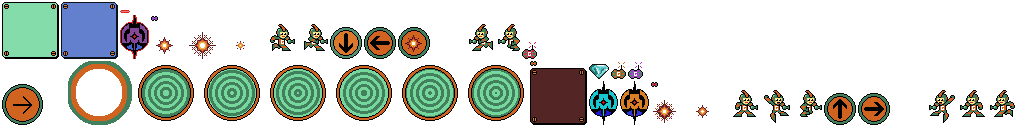
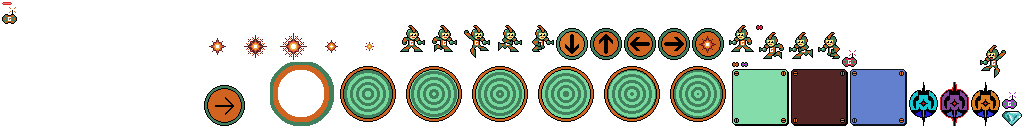
Improve font scaling issues in menus

diff --git a/core/src/main/java/com/sixmoney/gigagal/screens/LevelSelectScreen.java b/core/src/main/java/com/sixmoney/gigagal/screens/LevelSelectScreen.java
@@ -42,17 +42,7 @@ public class LevelSelectScreen extends InputAdapter implements Screen {
 
     @Override
     public void show() {
-//        Gdx.input.setInputProcessor(this);
-//        spriteBatch = new SpriteBatch();
-//        extendViewport = new ExtendViewport(Constants.WORLD_WIDTH, Constants.WORLD_HEIGHT);
-//        bitmapFont = new BitmapFont(Gdx.files.internal(Constants.FONT_FILE));
-//        level1_button = new Rectangle(extendViewport.getWorldWidth() / 8, extendViewport.getWorldHeight() * 4 / 8, extendViewport.getWorldWidth() * 6 / 8, extendViewport.getWorldHeight() / 6);
-//        level2_button = new Rectangle(extendViewport.getWorldWidth() / 8, extendViewport.getWorldHeight() / 8, extendViewport.getWorldWidth() * 6 / 8, extendViewport.getWorldHeight() / 6);
-//        level3_button = new Rectangle(extendViewport.getWorldWidth() / 8, extendViewport.getWorldHeight() / 12, extendViewport.getWorldWidth() * 6 / 8, extendViewport.getWorldHeight() / 6);
-//        level4_button = new Rectangle(extendViewport.getWorldWidth() / 8, extendViewport.getWorldHeight() / 12, extendViewport.getWorldWidth() * 6 / 8, extendViewport.getWorldHeight() / 6);
-//        back_button = new Rectangle(0, extendViewport.getWorldHeight() / 12 * 10, extendViewport.getWorldWidth() / 10, extendViewport.getWorldHeight() / 12);
-
-        stage = new Stage(new ExtendViewport(Constants.WORLD_WIDTH / 2, Constants.WINDOW_HEIGHT / 2));
+        stage = new Stage(new ExtendViewport(Constants.WORLD_WIDTH, Constants.WINDOW_HEIGHT));
         skin = new Skin(Gdx.files.internal(Constants.SKIN_PATH2));
 
         Table tableMenu = new Table(skin);
@@ -132,39 +122,12 @@ public class LevelSelectScreen extends InputAdapter implements Screen {
 
     @Override
     public void resize(int width, int height) {
-//        extendViewport.update(width, height, true);
-//        level1_button.x = extendViewport.getWorldWidth() / 8;
-//        level1_button.y = extendViewport.getWorldHeight() * 3 / 6;
-//        level1_button.width = extendViewport.getWorldWidth() * 6 / 8;
-//        level1_button.height = extendViewport.getWorldHeight() / 6;
-//
-//        level2_button.x = extendViewport.getWorldWidth() / 8;
-//        level2_button.y = extendViewport.getWorldHeight() * 2 / 6;
-//        level2_button.width = extendViewport.getWorldWidth() * 6 / 8;
-//        level2_button.height = extendViewport.getWorldHeight() / 6;
-//
-//        level3_button.x = extendViewport.getWorldWidth() / 8;
-//        level3_button.y = extendViewport.getWorldHeight() / 6;
-//        level3_button.width = extendViewport.getWorldWidth() * 6 / 8;
-//        level3_button.height = extendViewport.getWorldHeight() / 6;
-//
-//        level4_button.x = extendViewport.getWorldWidth() / 8;
-//        level4_button.y = extendViewport.getWorldHeight() / 16;
-//        level4_button.width = extendViewport.getWorldWidth() * 6 / 8;
-//        level4_button.height = extendViewport.getWorldHeight() / 10;
-//
-//        back_button.y = extendViewport.getWorldHeight() / 10 * 9;
-//        back_button.width = extendViewport.getWorldWidth() / 4;
-//        back_button.height = extendViewport.getWorldHeight() / 10;
-
         stage.getViewport().update(width, height, true);
     }
 
 
     @Override
     public void render(float delta) {
-//        extendViewport.apply(true);
-
         Gdx.gl.glClearColor(
                 Constants.BG_COLOR.r,
                 Constants.BG_COLOR.g,
@@ -172,23 +135,6 @@ public class LevelSelectScreen extends InputAdapter implements Screen {
                 Constants.BG_COLOR.a
         );
         Gdx.gl.glClear(GL20.GL_COLOR_BUFFER_BIT);
-
-//        spriteBatch.setProjectionMatrix(extendViewport.getCamera().combined);
-//        spriteBatch.begin();
-//        bitmapFont.getData().setScale(0.5f);
-//        bitmapFont.draw(spriteBatch, "SELECT A LEVEL", extendViewport.getWorldWidth() / 2, extendViewport.getWorldHeight() / 1.2f, 0, Align.center, false);
-//        Assets.get_instance().platformAssets.ninePatch_platform.draw(spriteBatch, level1_button.x, level1_button.y, level1_button.width, level1_button.height);
-//        Assets.get_instance().platformAssets.ninePatch_platform.draw(spriteBatch, level2_button.x, level2_button.y, level2_button.width, level2_button.height);
-//        Assets.get_instance().platformAssets.ninePatch_platform.draw(spriteBatch, level3_button.x, level3_button.y, level3_button.width, level3_button.height);
-//        Assets.get_instance().platformAssets.ninePatch_platform.draw(spriteBatch, level4_button.x, level4_button.y, level4_button.width, level4_button.height);
-//        Assets.get_instance().platformAssets.ninePatch_platform.draw(spriteBatch, back_button.x, back_button.y, back_button.width, back_button.height);
-//        bitmapFont.draw(spriteBatch, "LEVEL 1", level1_button.x + level1_button.width / 2, level1_button.y + level1_button.height / 1.3f, 0, Align.center, false);
-//        bitmapFont.draw(spriteBatch, "LEVEL 2", level2_button.x + level2_button.width / 2, level2_button.y + level2_button.height / 1.3f, 0, Align.center, false);
-//        bitmapFont.draw(spriteBatch, "LEVEL 3", level3_button.x + level3_button.width / 2, level3_button.y + level3_button.height / 1.3f, 0, Align.center, false);
-//        bitmapFont.draw(spriteBatch, "LEVEL 4", level4_button.x + level4_button.width / 2, level4_button.y + level4_button.height / 1.3f, 0, Align.center, false);
-//        bitmapFont.getData().setScale(0.3f);
-//        bitmapFont.draw(spriteBatch, "BACK", back_button.x + back_button.width / 2, back_button.y + back_button.height / 1.5f, 0, Align.center, false);
-//        spriteBatch.end();
 
         stage.act(delta);
         stage.draw();
@@ -209,26 +155,6 @@ public class LevelSelectScreen extends InputAdapter implements Screen {
 
     @Override
     public void dispose() {
-//        spriteBatch.dispose();
         stage.dispose();
     }
-
-//    @Override
-//    public boolean touchDown(int screenX, int screenY, int pointer, int button) {
-//        Vector2 viewportPosition = extendViewport.unproject(new Vector2(screenX, screenY));
-//
-//        if (level1_button.contains(viewportPosition)) {
-//            gigaGalGame.switchScreen("gameplay", Constants.LEVEL_1);
-//        } else if (level2_button.contains(viewportPosition)) {
-//            gigaGalGame.switchScreen("gameplay", Constants.LEVEL_2);
-//        } else if (level3_button.contains(viewportPosition)) {
-//            gigaGalGame.switchScreen("gameplay", Constants.LEVEL_3);
-//        } else if (level4_button.contains(viewportPosition)) {
-//            gigaGalGame.switchScreen("gameplay", Constants.LEVEL_4);
-//        } else if(back_button.contains(viewportPosition)) {
-//            gigaGalGame.switchScreen("menu");
-//            dispose();
-//        }
-//        return super.touchDown(screenX, screenY, pointer, button);
-//    }
 }

diff --git a/core/src/main/java/com/sixmoney/gigagal/utils/Assets.java b/core/src/main/java/com/sixmoney/gigagal/utils/Assets.java
@@ -27,6 +27,7 @@ public class Assets implements Disposable, AssetErrorListener {
     public OnscreenControlsAssets onscreenControlsAssets;
     public DiamondAssets diamondAssets;
     public ParticleAssets particleAssets;
+    public BackgroundAssets backgroundAssets;
 
     private Assets() {
         init();
@@ -57,6 +58,7 @@ public class Assets implements Disposable, AssetErrorListener {
         onscreenControlsAssets = new OnscreenControlsAssets(atlas);
         diamondAssets = new DiamondAssets(atlas);
         particleAssets = new ParticleAssets(atlas);
+        backgroundAssets = new BackgroundAssets(atlas);
     }
 
     public TextureAtlas getAtlas() {
@@ -290,6 +292,14 @@ public class Assets implements Disposable, AssetErrorListener {
 
         public ParticleAssets(TextureAtlas atlas) {
             particle = atlas.findRegion(Constants.PARTICLE);
+        }
+    }
+
+    public class BackgroundAssets {
+        public TextureAtlas.AtlasRegion clouds;
+
+        public BackgroundAssets(TextureAtlas atlas) {
+            clouds = atlas.findRegion(Constants.CLOUDS);
         }
     }
 }

diff --git a/core/src/main/java/com/sixmoney/gigagal/screens/OptionsScreen.java b/core/src/main/java/com/sixmoney/gigagal/screens/OptionsScreen.java
@@ -45,10 +45,7 @@ public class OptionsScreen implements Screen {
     public void show() {
         stage = new Stage(new ExtendViewport(Constants.WINDOW_WIDTH, Constants.WINDOW_HEIGHT));
         skin = new Skin(Gdx.files.internal(Constants.SKIN_PATH2));
-//        skin.getFont("font").getData().setScale(2);
-//        skin.getFont("list").getData().setScale(2);
-//        skin.getFont("subtitle").getData().setScale(2);
-//        skin.getFont("window").getData().setScale(2);
+        skin.getFont("font").getData().setScale(0.5f);
 
         buttonBack = new TextButton("Back", skin, "gigagal");
         buttonBack.setWidth(stage.getWidth() / 8);

diff --git a/core/src/main/java/com/sixmoney/gigagal/screens/MenuScreen.java b/core/src/main/java/com/sixmoney/gigagal/screens/MenuScreen.java
@@ -28,7 +28,7 @@ public class MenuScreen implements Screen {
 
     @Override
     public void show() {
-        stage = new Stage(new ExtendViewport(Constants.WORLD_WIDTH / 2, Constants.WINDOW_HEIGHT / 2));
+        stage = new Stage(new ExtendViewport(Constants.WORLD_WIDTH, Constants.WINDOW_HEIGHT));
         skin = new Skin(Gdx.files.internal(Constants.SKIN_PATH2));
 
         Table tableMenu = new Table(skin);

diff --git a/core/src/main/java/com/sixmoney/gigagal/utils/Constants.java b/core/src/main/java/com/sixmoney/gigagal/utils/Constants.java
@@ -56,6 +56,7 @@ public class Constants {
     public static final String EXIT_PORTAL_SPRITE_6 = "exit-portal-6";
     public static final String DIAMOND = "diamond";
     public static final String PARTICLE = "particle";
+    public static final String CLOUDS = "clouds";
 
 
     // gigagal
